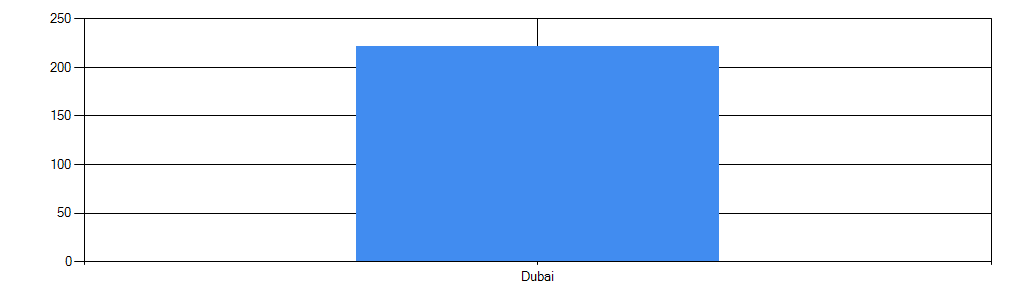
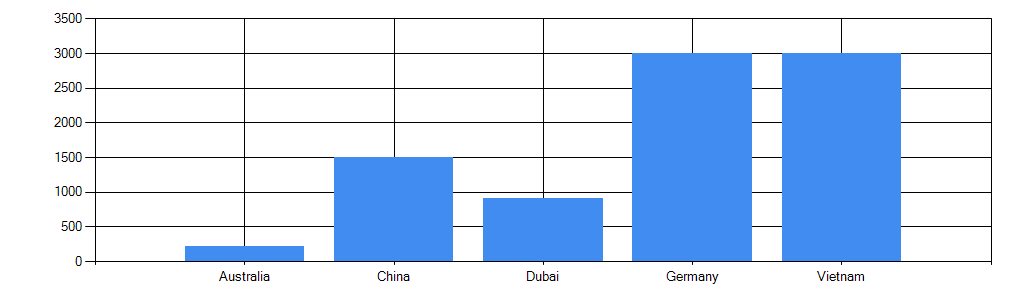
changed some stuff for the graph

diff --git a/eadLab5/ReportAndStatistics.aspx.cs b/eadLab5/ReportAndStatistics.aspx.cs
@@ -1,4 +1,5 @@
-using System;
+using eadLab5.DAL;
+using System;
 using System.Collections.Generic;
 using System.Configuration;
 using System.Data;
@@ -31,19 +32,29 @@ namespace eadLab5
                         buildPieChart("All");
                         buildHorizontalChart("All");
                         buildLineChart("All", "All");
+
+                        TripDAO tripDao = new TripDAO();
+                        List<String> countryList = tripDao.getCountry();
+                        CountryDropDown.DataSource = countryList;
+                        CountryDropDown.DataBind();
+                        CountryDropDown.Items.Insert(0, new ListItem("All", "All"));
+
+                        DropDownListCountryPieChart.DataSource = countryList;
+                        DropDownListCountryPieChart.DataBind();
+                        DropDownListCountryPieChart.Items.Insert(0, new ListItem("All", "All"));
                     }
                 }
                 else
                 {
                     Response.Redirect("./Oops.aspx");
                 }
-            } catch (Exception)
+            }
+            catch (Exception)
             {
                 Response.Redirect("./Oops.aspx");
             }
-          
 
-          
+           
 
         }
 
@@ -76,36 +87,43 @@ namespace eadLab5
             if (!country.Equals("All"))
             {
                 strSQL += "where location = @paraCountry ";
+                strSQL += "and status != 'Cancelled' ";
             }
 
             if (!type.Equals("All") && (!country.Equals("All")))
             {
                 strSQL += "and triptype = @paratype ";
+                strSQL += "and status != 'Cancelled' ";
 
             }
             else if (!type.Equals("All") && (country.Equals("All")))
             {
 
                 strSQL += "where triptype = @paratype ";
+                strSQL += "and status != 'Cancelled' ";
             }
 
             if ((!dateStart.Equals("") || (!dateEnd.Equals(""))) && (country.Equals("All")) && (type.Equals("All")))
             {
                 strSQL += "where TRIPSTART BETWEEN @paradateStart and @paradateEnd ";
+                strSQL += "and status != 'Cancelled' ";
 
             }
             else if ((!dateStart.Equals("") || (!dateEnd.Equals(""))) && (!country.Equals("All")) && (type.Equals("All")))
             {
                 strSQL += "and TRIPSTART BETWEEN @paradateStart and @paradateEnd ";
+                strSQL += "and status != 'Cancelled' ";
 
             }
             else if ((!dateStart.Equals("") || (!dateEnd.Equals(""))) && (country.Equals("All")) && (!type.Equals("All")))
             {
                 strSQL += "and TRIPSTART BETWEEN @paradateStart and @paradateEnd ";
+                strSQL += "and status != 'Cancelled' ";
             }
             else if ((!dateStart.Equals("") || (!dateEnd.Equals(""))) && (!country.Equals("All")) && (!type.Equals("All")))
             {
                 strSQL += "and TRIPSTART BETWEEN @paradateStart and @paradateEnd ";
+                strSQL += "and status != 'Cancelled' ";
             }
 
 
@@ -150,7 +168,8 @@ namespace eadLab5
             DataSet ds = new DataSet();
             
             String strSQL = "SELECT COUNT([Diploma]) NoOfStudents, [Diploma] FROM [Trip] o ";
-            strSQL += "INNER JOIN [Student] S ON o.[TripId] = s.[TripId] ";
+            strSQL += "INNER JOIN[Register] R on o.tripid = r.tripid ";
+            strSQL += "INNER JOIN[Student] S on r.adminNo = s.adminNo ";
 
             if (!country.Equals("All"))
             {
@@ -186,7 +205,10 @@ namespace eadLab5
             DateTime now = DateTime.Now;
 
 
-            String strSQL = "SELECT COUNT([adminno]) NoOfStudents, DATENAME(month, TripEnd) AS [Month] FROM [Trip] o INNER JOIN [Student] S ON o.[TripId] = s.[TripId] ";
+            String strSQL = "SELECT COUNT(i.adminno) NoOfStudents, DATENAME(month, TripEnd) AS [Month] FROM [interview] i ";
+            strSQL += "INNER JOIN trip t on i.tripid = t.tripid ";
+            strSQL += "INNER JOIN register r on i.AdminNo = r.AdminNo ";
+            strSQL += "INNER JOIN Student s on r.adminNo = s.adminno ";
 
             if (!Diploma.Equals("All"))
             {
@@ -199,14 +221,14 @@ namespace eadLab5
                     {
                         int studentyr = int.Parse(StudentYear);
                         studentyr--;
-                        strSQL += "AND ((year(getdate()) - 2000) - convert(int, SUBSTRING(AdminNo, 1, 2))) = @paraStudentYear Group By [TripEnd] ";
+                        strSQL += "AND ((year(getdate()) - 2000) - convert(int, SUBSTRING(i.AdminNo, 1, 2))) = @paraStudentYear Group By [TripEnd] ";
                         //check
                         da = new SqlDataAdapter(strSQL.ToString(), myConn);
                         da.SelectCommand.Parameters.AddWithValue("@paraStudentYear", studentyr);
                     }
                     else
                     {
-                        strSQL += "AND ((year(getdate()) - 2000) - convert(int, SUBSTRING(AdminNo, 1, 2))) = @paraStudentYear Group By [TripEnd] ";
+                        strSQL += "AND ((year(getdate()) - 2000) - convert(int, SUBSTRING(i.AdminNo, 1, 2))) = @paraStudentYear Group By [TripEnd] ";
                         //check
                         da = new SqlDataAdapter(strSQL.ToString(), myConn);
                         da.SelectCommand.Parameters.AddWithValue("@paraStudentYear", StudentYear);
@@ -227,14 +249,14 @@ namespace eadLab5
                 {
                     int studentyr = int.Parse(StudentYear);
                     studentyr--;
-                    strSQL += "WHERE ((year(getdate()) - 2000) - convert(int, SUBSTRING(AdminNo, 1, 2))) = @paraStudentYear Group By [TripEnd] ";
+                    strSQL += "WHERE ((year(getdate()) - 2000) - convert(int, SUBSTRING(i.AdminNo, 1, 2))) = @paraStudentYear Group By [TripEnd] ";
                     //check
                     da = new SqlDataAdapter(strSQL.ToString(), myConn);
                     da.SelectCommand.Parameters.AddWithValue("@paraStudentYear", studentyr);
                 }
                 else
                 {
-                    strSQL += "WHERE ((year(getdate()) - 2000) - convert(int, SUBSTRING(AdminNo, 1, 2))) = @paraStudentYear Group By [TripEnd] ";
+                    strSQL += "WHERE ((year(getdate()) - 2000) - convert(int, SUBSTRING(i.AdminNo, 1, 2))) = @paraStudentYear Group By [TripEnd] ";
                     //check
                     da = new SqlDataAdapter(strSQL.ToString(), myConn);
                     da.SelectCommand.Parameters.AddWithValue("@paraStudentYear", StudentYear);
@@ -261,7 +283,10 @@ namespace eadLab5
 
             DataSet ds = new DataSet();
 
-            String strSQL = "SELECT Count(AdminNo) NoOfStudents,Location FROM [Trip] O Inner join [Student] S on O.[TripId] = S.[TripId] ";
+            String strSQL = "SELECT  Count(i.AdminNo) NoOfStudents, Location FROM [interview] i ";
+            strSQL += "INNER JOIN trip t on i.tripid = t.tripid ";
+            strSQL += "INNER JOIN register r on i.AdminNo = r.AdminNo ";
+            strSQL += "INNER JOIN Student s on r.adminNo = s.adminno ";
 
             SqlDataAdapter da;
 

diff --git a/eadLab5/DAL/FeedbackFormDAO.cs b/eadLab5/DAL/FeedbackFormDAO.cs
@@ -463,7 +463,7 @@ namespace eadLab5.DAL
             StringBuilder sqlStr = new StringBuilder();
             sqlStr.AppendLine("select r.tripid, triptitle, location, CONVERT(VARCHAR(10), tripstart, 103) + '-' + CONVERT(VARCHAR(10), tripend, 103) AS [TIMERANGE]  from trip r ");
             sqlStr.AppendLine("inner join interview i on r.tripid = i.tripid ");
-            sqlStr.AppendLine("where tripend < GETDATE() and studentchoice = 'Accept' and AdminNo = @paraAdminNo and (FeedbackDone ='' or FeedbackDone IS NULL) ");
+            sqlStr.AppendLine("where tripend < GETDATE() and studentchoice = 'Accepted' and AdminNo = @paraAdminNo and (FeedbackDone ='' or FeedbackDone IS NULL) ");
 
             // Step 4 :Instantiate SqlConnection instance and SqlDataAdapter instance
 
